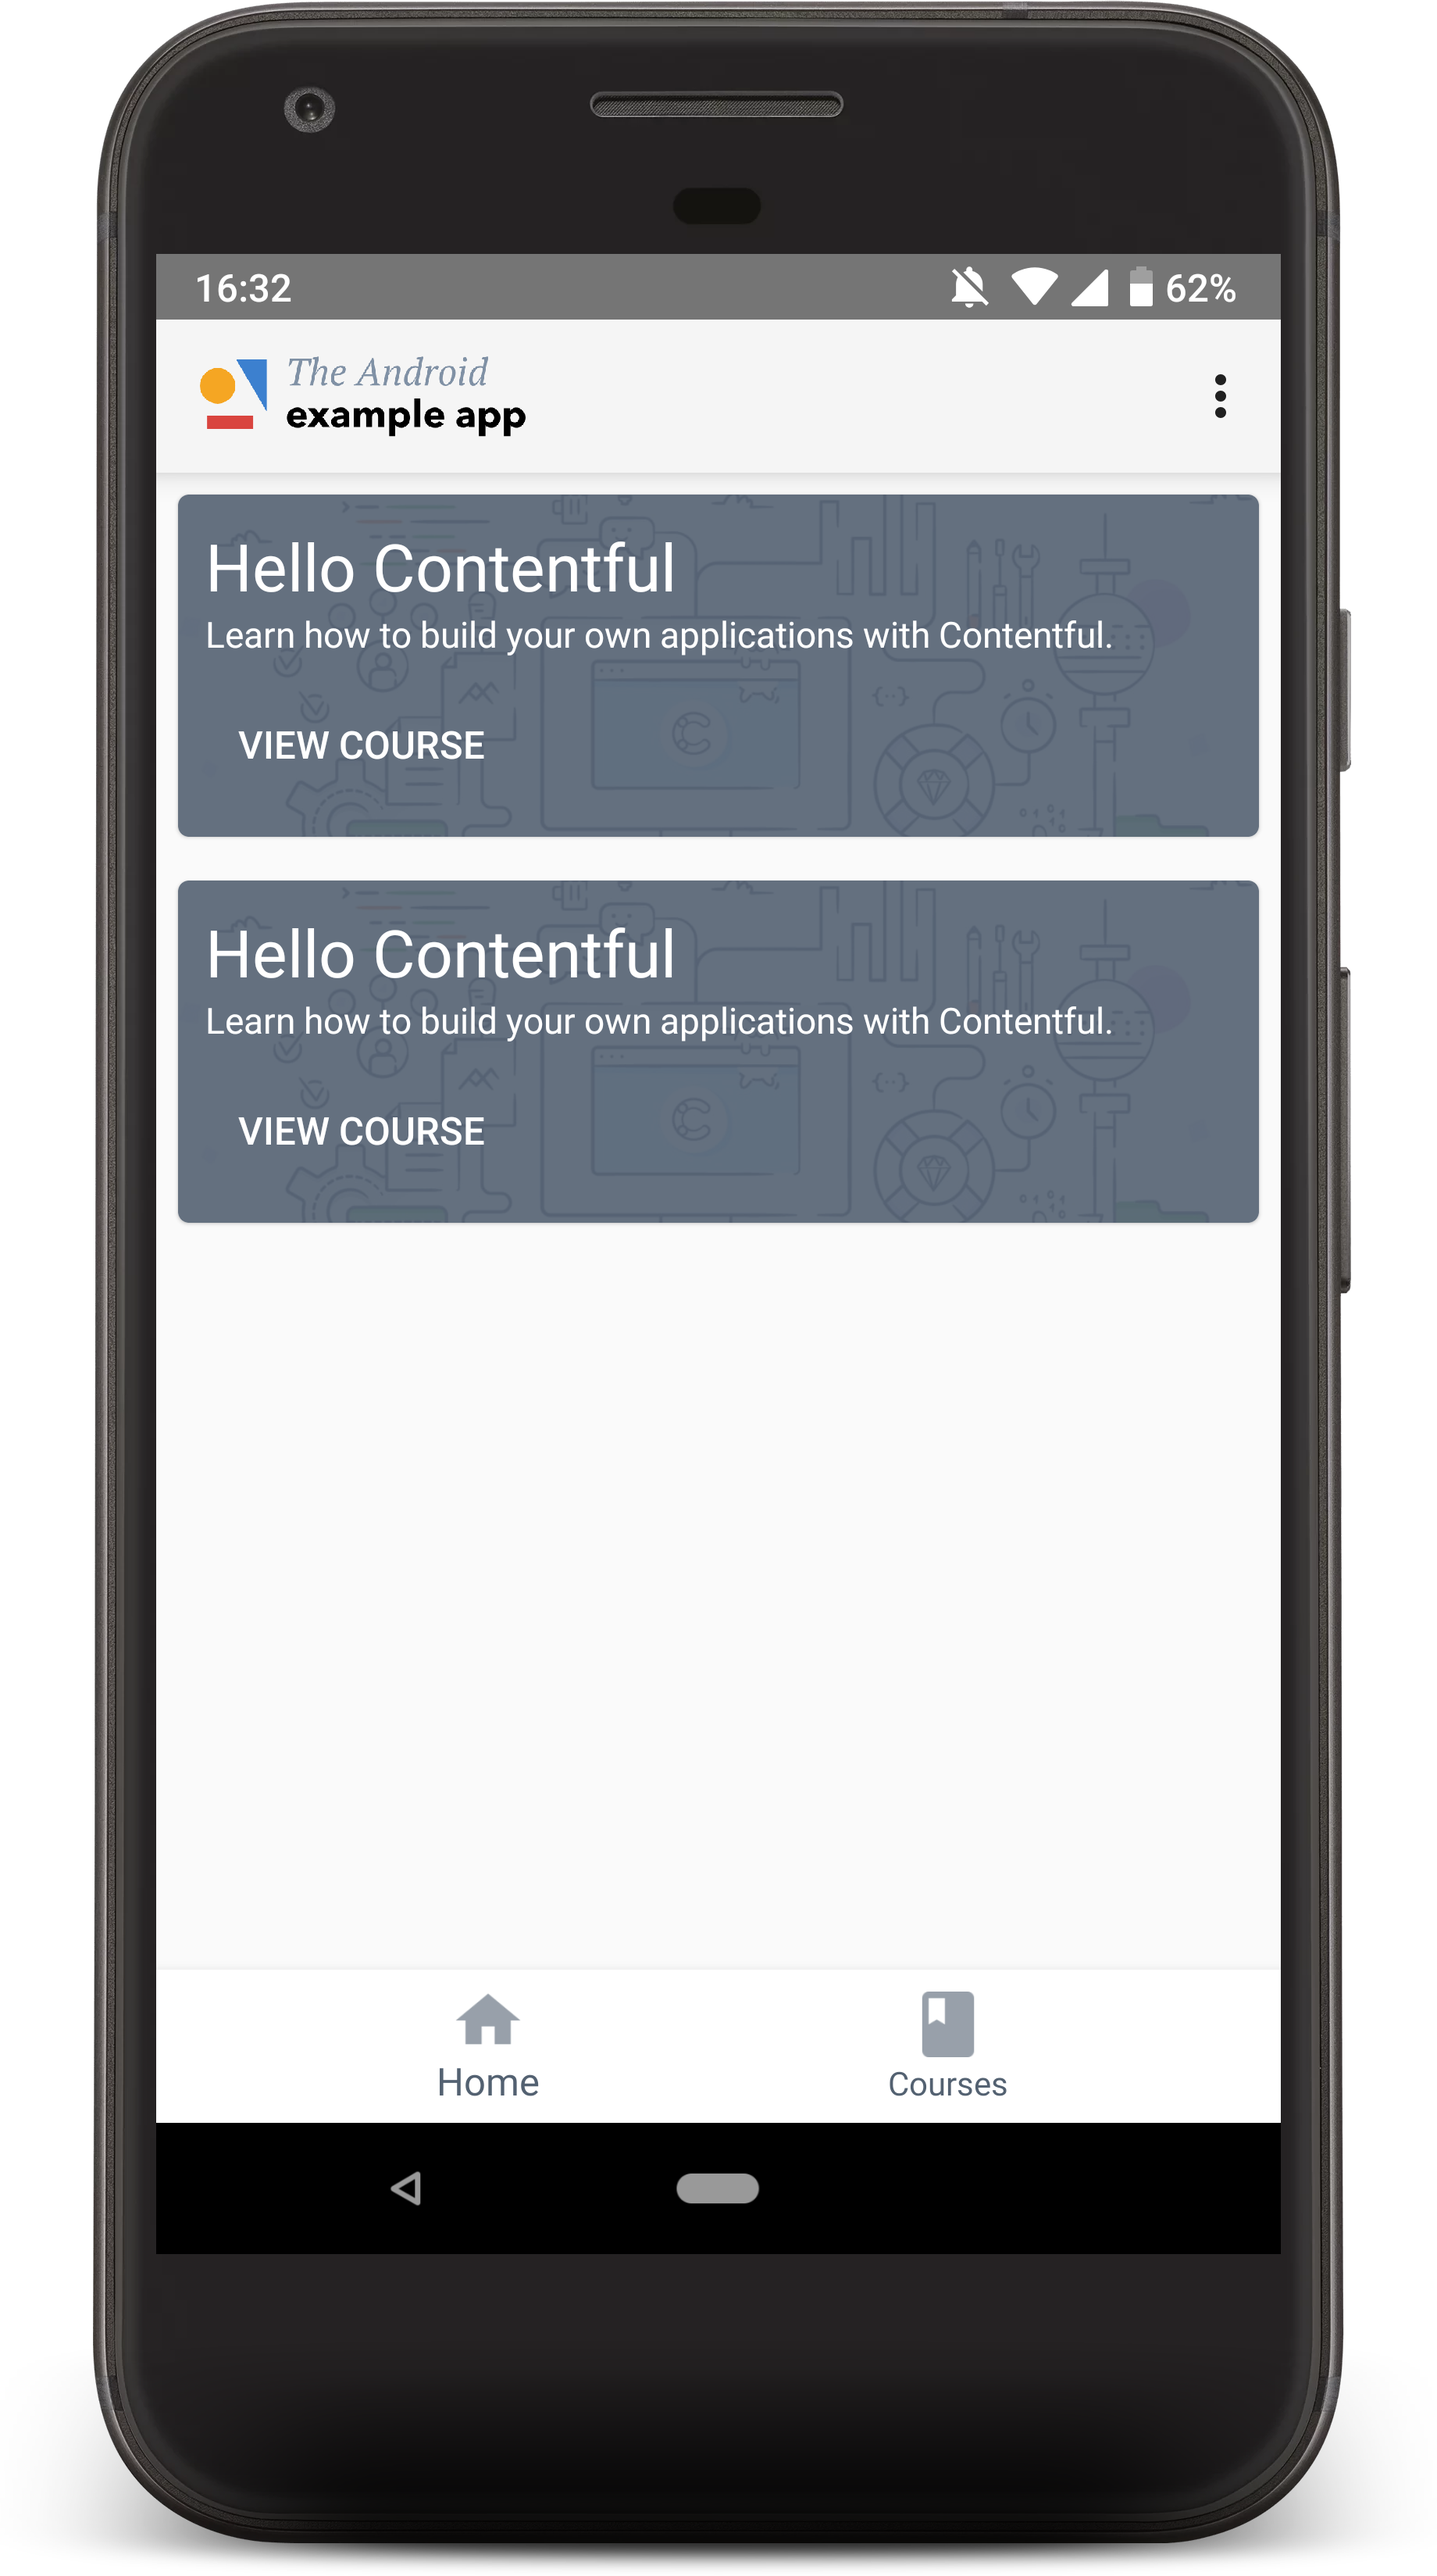
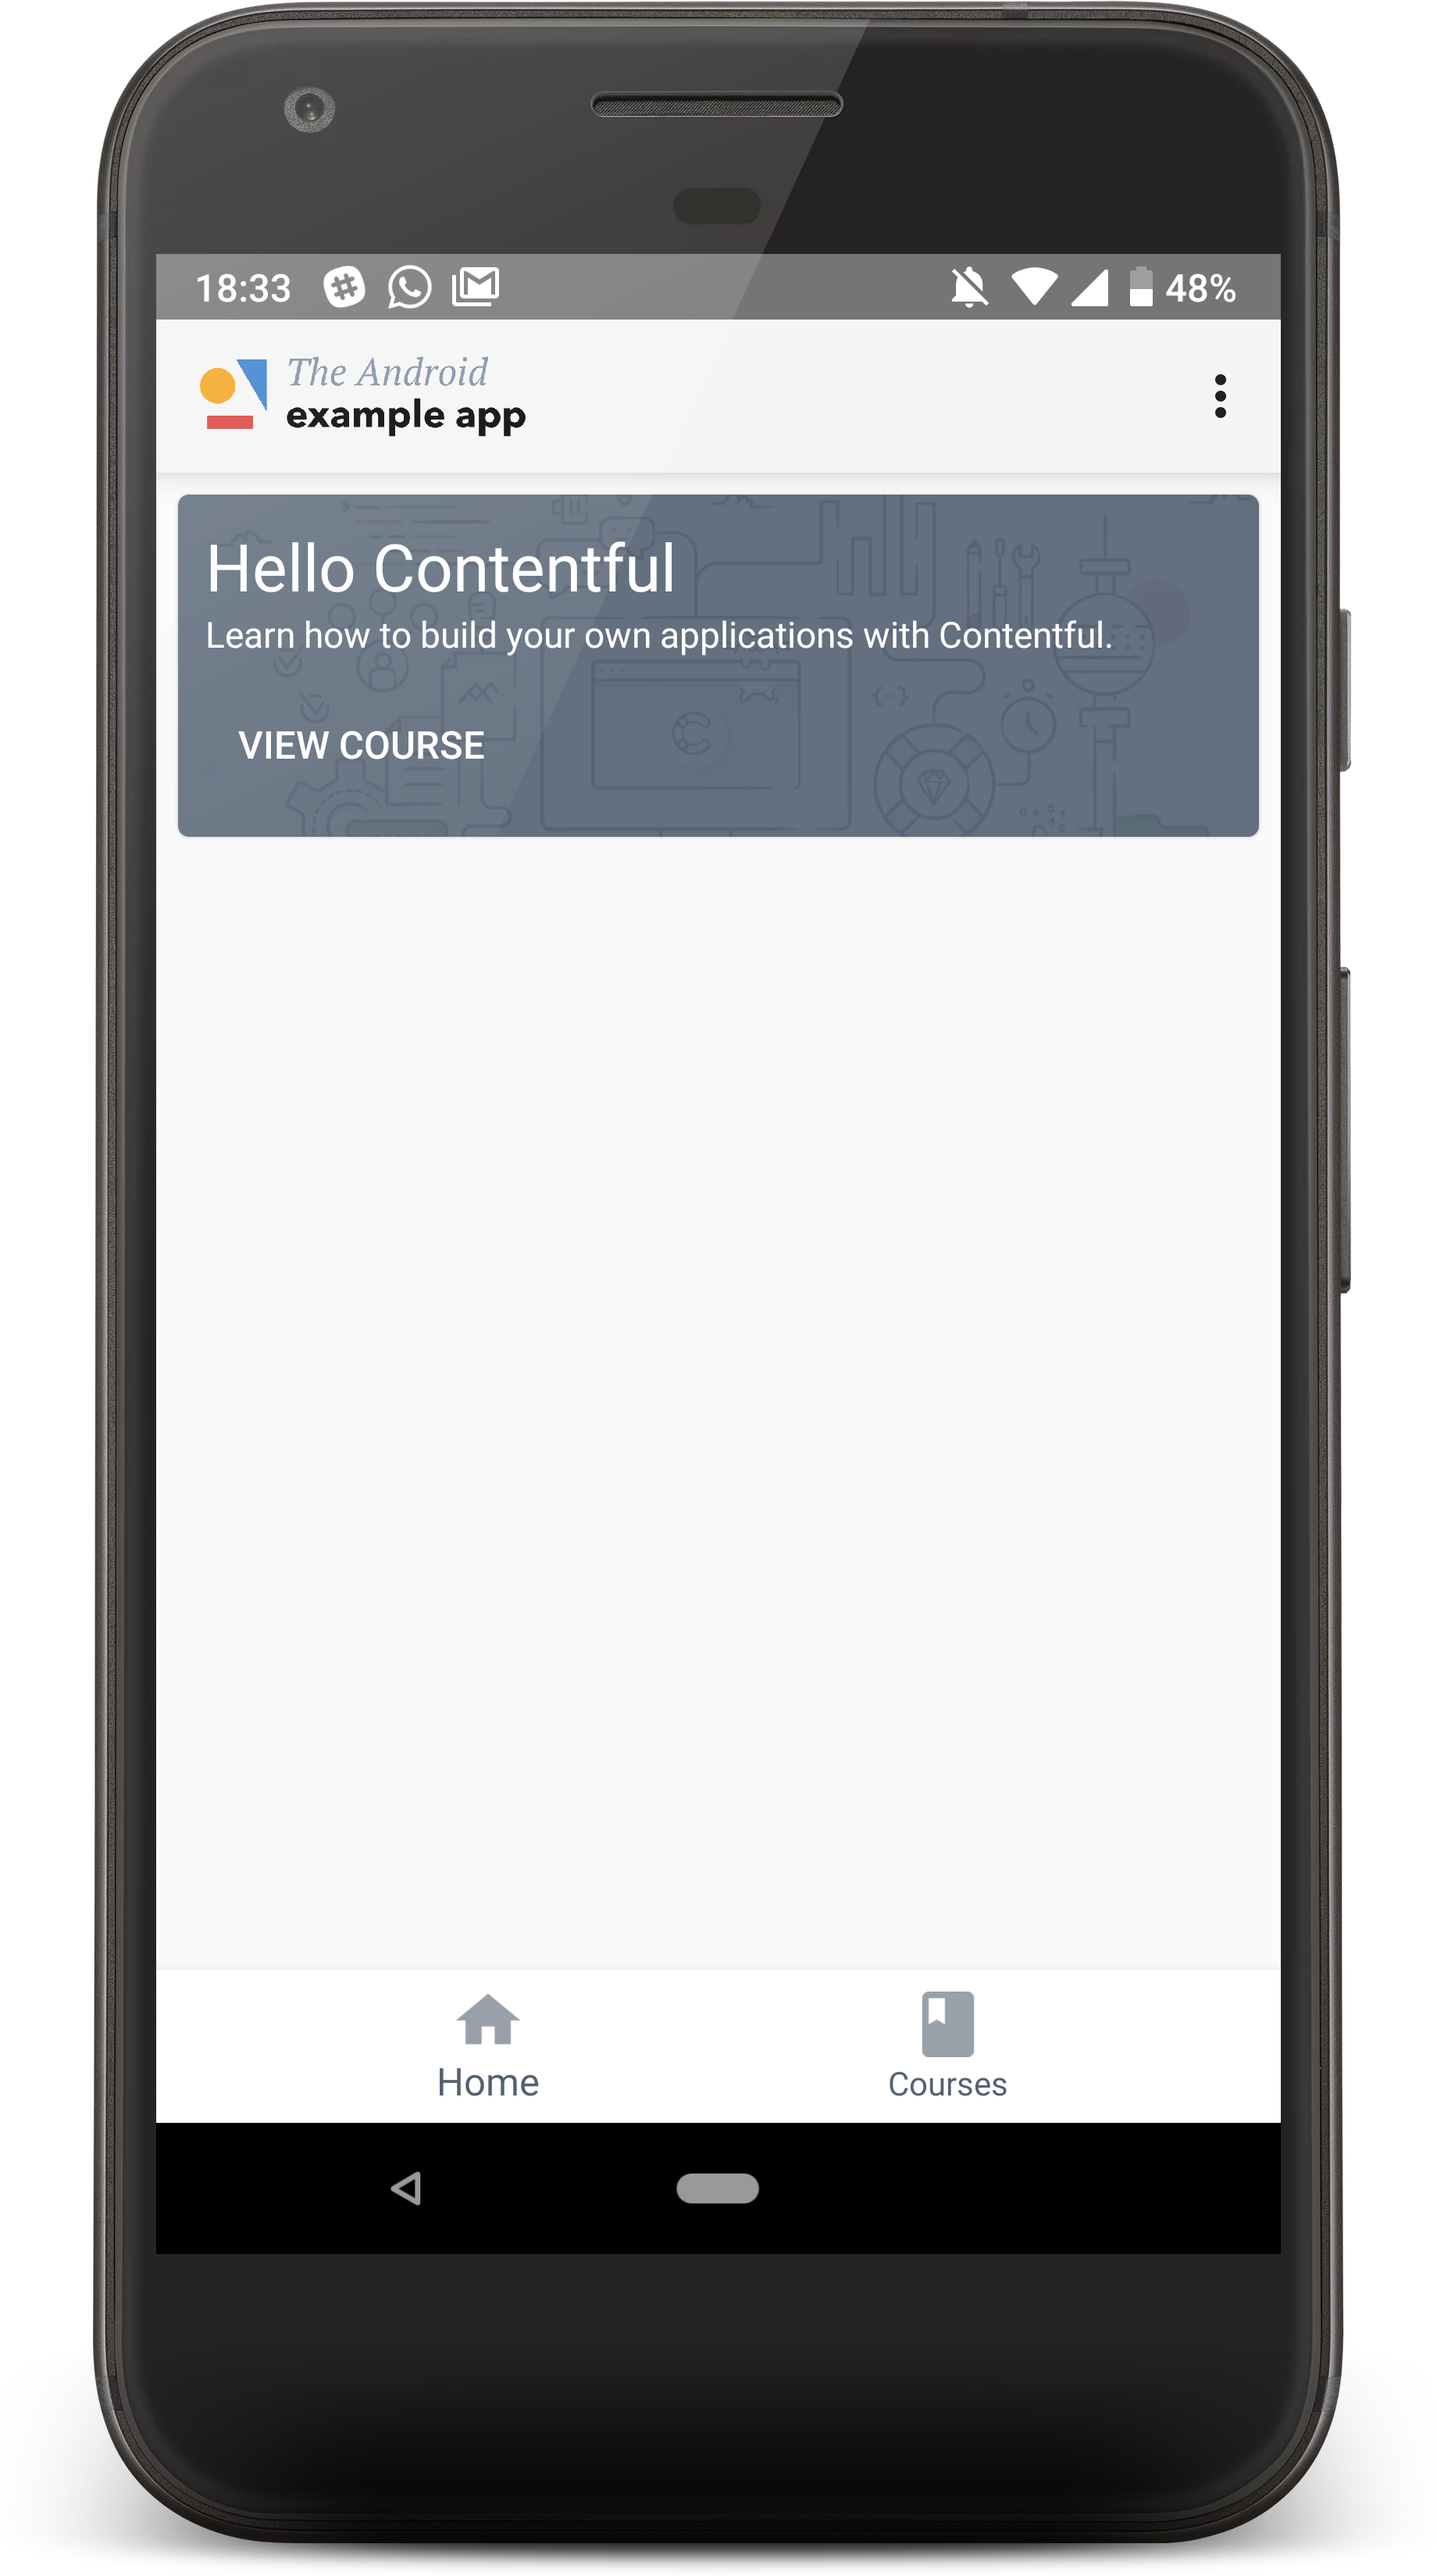
update home layout to fetch data from contentful

diff --git a/app/src/main/kotlin/com/contentful/tea/kotlin/home/HomeFragment.kt b/app/src/main/kotlin/com/contentful/tea/kotlin/home/HomeFragment.kt
@@ -7,36 +7,69 @@ import android.view.ViewGroup
 import androidx.fragment.app.Fragment
 import androidx.navigation.fragment.NavHostFragment
 import com.contentful.tea.kotlin.R
+import com.contentful.tea.kotlin.contentful.Contentful
+import com.contentful.tea.kotlin.contentful.Layout
+import com.contentful.tea.kotlin.contentful.LayoutModule
+import kotlinx.android.synthetic.main.course_card.view.*
+import kotlinx.android.synthetic.main.fragment_home.*
 
 /**
- * This fragment will be the actual starting point of the app: Showing the high lighted courses and
- * offering settings.
+ * This fragment will be the actual starting point of the app: Showing modules and offering
+ * settings.
  */
 class HomeFragment : Fragment() {
+    private var contentful: Contentful = Contentful()
+
     override fun onCreateView(
         inflater: LayoutInflater,
         container: ViewGroup?,
         savedInstanceState: Bundle?
     ): View? {
-        // Inflate the layout for this fragment
-        val root = inflater.inflate(R.layout.fragment_home, container, false)
+        return inflater.inflate(R.layout.fragment_home, container, false)
+    }
 
-        val navController = NavHostFragment.findNavController(this)
+    override fun onViewCreated(view: View, savedInstanceState: Bundle?) {
+        super.onViewCreated(view, savedInstanceState)
 
-        val list: ViewGroup = root.findViewById(R.id.home_courses)
-        list.forEach { index, view ->
-            view.setOnClickListener {
-                val action = HomeFragmentDirections.openCourseOverview("course " + index)
-                navController.navigate(action)
+        contentful.fetchHomeLayout { layout: Layout ->
+            layout.contentModules.forEach { module ->
+                activity?.runOnUiThread {
+                    layoutInflater.inflate(R.layout.course_card, home_courses, false).apply {
+                        updateModuleView(this, module)
+                        home_courses.addView(this)
+                    }
+                }
             }
         }
-
-        return root
     }
-}
 
-fun ViewGroup.forEach(action: (index: Int, view: View) -> Any?) {
-    for (i in 0 until this.childCount) {
-        action(i, this.getChildAt(i))
+    private fun updateModuleView(view: View, module: LayoutModule) {
+        when (module) {
+            is LayoutModule.HightlightedCourse -> {
+                view.card_title.text = module.course.title
+                view.card_description.text = module.course.shortDescription
+                view.card_background.setImageResource(R.drawable.placeholder_image)
+
+                val l: (View) -> Unit = {
+                    val navController = NavHostFragment.findNavController(this@HomeFragment)
+                    val action = HomeFragmentDirections.openCourseOverview(module.course.id)
+                    navController.navigate(action)
+                }
+
+                view.setOnClickListener(l)
+                view.card_call_to_action.setOnClickListener(l)
+            }
+            is LayoutModule.HeroImage -> {
+                view.card_title.text = module.title
+                view.card_background.setImageResource(R.drawable.placeholder_image)
+                view.card_scrim.setBackgroundResource(android.R.color.transparent)
+            }
+            is LayoutModule.Copy -> {
+                view.card_title.text = module.headline
+                view.card_description.text = module.copy
+                view.card_background.setBackgroundResource(android.R.color.transparent)
+                view.card_scrim.setBackgroundResource(android.R.color.transparent)
+            }
+        }
     }
 }

diff --git a/app/src/main/kotlin/com/contentful/tea/kotlin/contentful/Contentful.kt b/app/src/main/kotlin/com/contentful/tea/kotlin/contentful/Contentful.kt
@@ -1,11 +1,45 @@
 package com.contentful.tea.kotlin.contentful
 
+import android.util.Log
 import com.contentful.java.cda.CDAClient
+import com.contentful.java.cda.CDAEntry
 import com.contentful.tea.kotlin.BuildConfig
+import kotlinx.coroutines.experimental.launch
 
 class Contentful(
     val client: CDAClient = CDAClient.builder()
         .setToken(BuildConfig.CONTENTFUL_DELIVERY_TOKEN)
         .setSpace(BuildConfig.CONTENTFUL_SPACE_ID)
-        .build()
-)
+        .build(),
+    private val locale: String = "en-US"
+) {
+    fun fetchHomeLayout(
+        errorCallback: (Throwable) -> Unit = ::defaultError,
+        successCallback: (Layout) -> Unit
+    ) {
+        launch {
+            try {
+                val layout = client
+                    .fetch(CDAEntry::class.java)
+                    .withContentType("layout")
+                    .include(10)
+                    .all()
+                    .items()
+                    .map { Layout(it as CDAEntry, locale) }
+                    .first { it.contentModules.isNotEmpty() }
+
+                successCallback(layout)
+            } catch (throwable: Throwable) {
+                errorCallback(throwable)
+            }
+        }
+    }
+
+    private fun defaultError(t: Throwable) {
+        Log.e(TAG, "Failure in fetching from Contentful", t)
+    }
+
+    companion object {
+        private val TAG: String = Contentful::class.simpleName!!
+    }
+}

diff --git a/app/src/main/kotlin/com/contentful/tea/kotlin/contentful/Course.kt b/app/src/main/kotlin/com/contentful/tea/kotlin/contentful/Course.kt
@@ -7,6 +7,7 @@ import com.contentful.java.cda.image.ImageOption.formatOf
 import com.contentful.java.cda.image.ImageOption.https
 
 data class Course(
+    val id: String,
     val title: String,
     val slug: String,
     val image: String,
@@ -18,6 +19,7 @@ data class Course(
     val categories: List<Category>
 ) {
     constructor(entry: CDAEntry, locale: String) : this(
+        entry.id(),
         entry.getField<String>(locale, "title"),
         entry.getField<String>(locale, "slug"),
         entry.getField<CDAAsset>(locale, "image")

diff --git a/app/src/main/kotlin/com/contentful/tea/kotlin/courses/CoursesFragment.kt b/app/src/main/kotlin/com/contentful/tea/kotlin/courses/CoursesFragment.kt
@@ -8,7 +8,7 @@ import androidx.fragment.app.Fragment
 import androidx.navigation.Navigation
 import androidx.navigation.fragment.NavHostFragment
 import com.contentful.tea.kotlin.R
-import com.contentful.tea.kotlin.home.forEach
+import com.contentful.tea.kotlin.extensions.forEach
 import com.google.android.material.tabs.TabLayout
 import kotlinx.android.synthetic.main.fragment_courses.*
 

diff --git a/app/src/main/kotlin/com/contentful/tea/kotlin/extensions/ViewExtensions.kt b/app/src/main/kotlin/com/contentful/tea/kotlin/extensions/ViewExtensions.kt
@@ -1,0 +1,10 @@
+package com.contentful.tea.kotlin.extensions
+
+import android.view.View
+import android.view.ViewGroup
+
+fun ViewGroup.forEach(action: (index: Int, view: View) -> Any?) {
+    for (i in 0 until this.childCount) {
+        action(i, this.getChildAt(i))
+    }
+}
